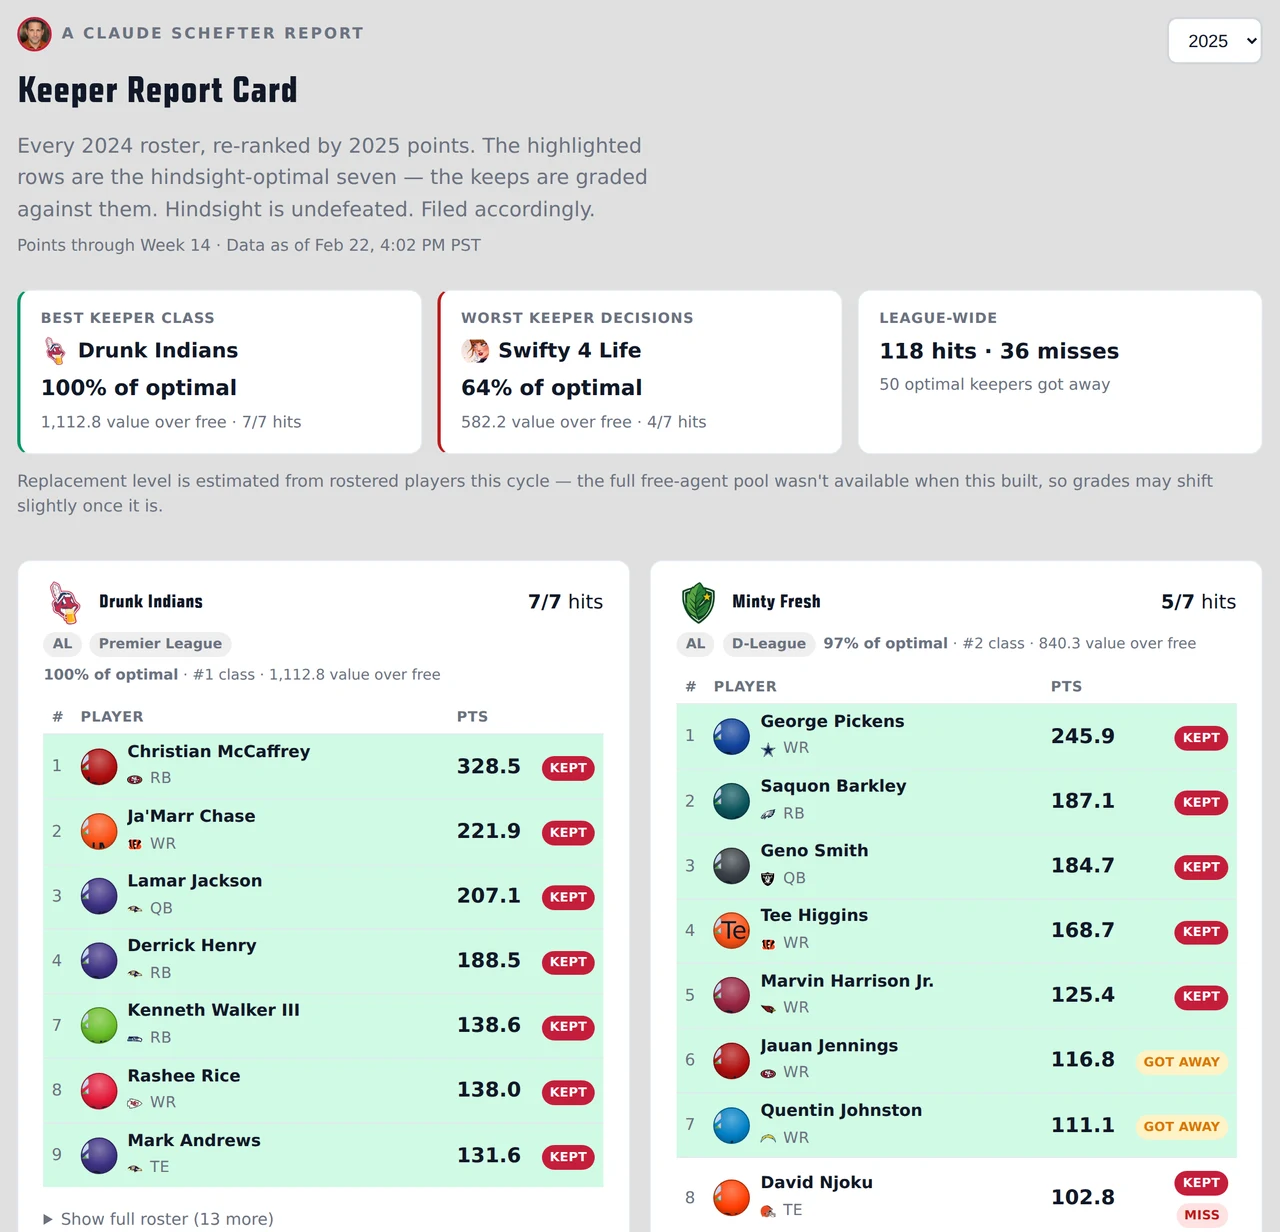
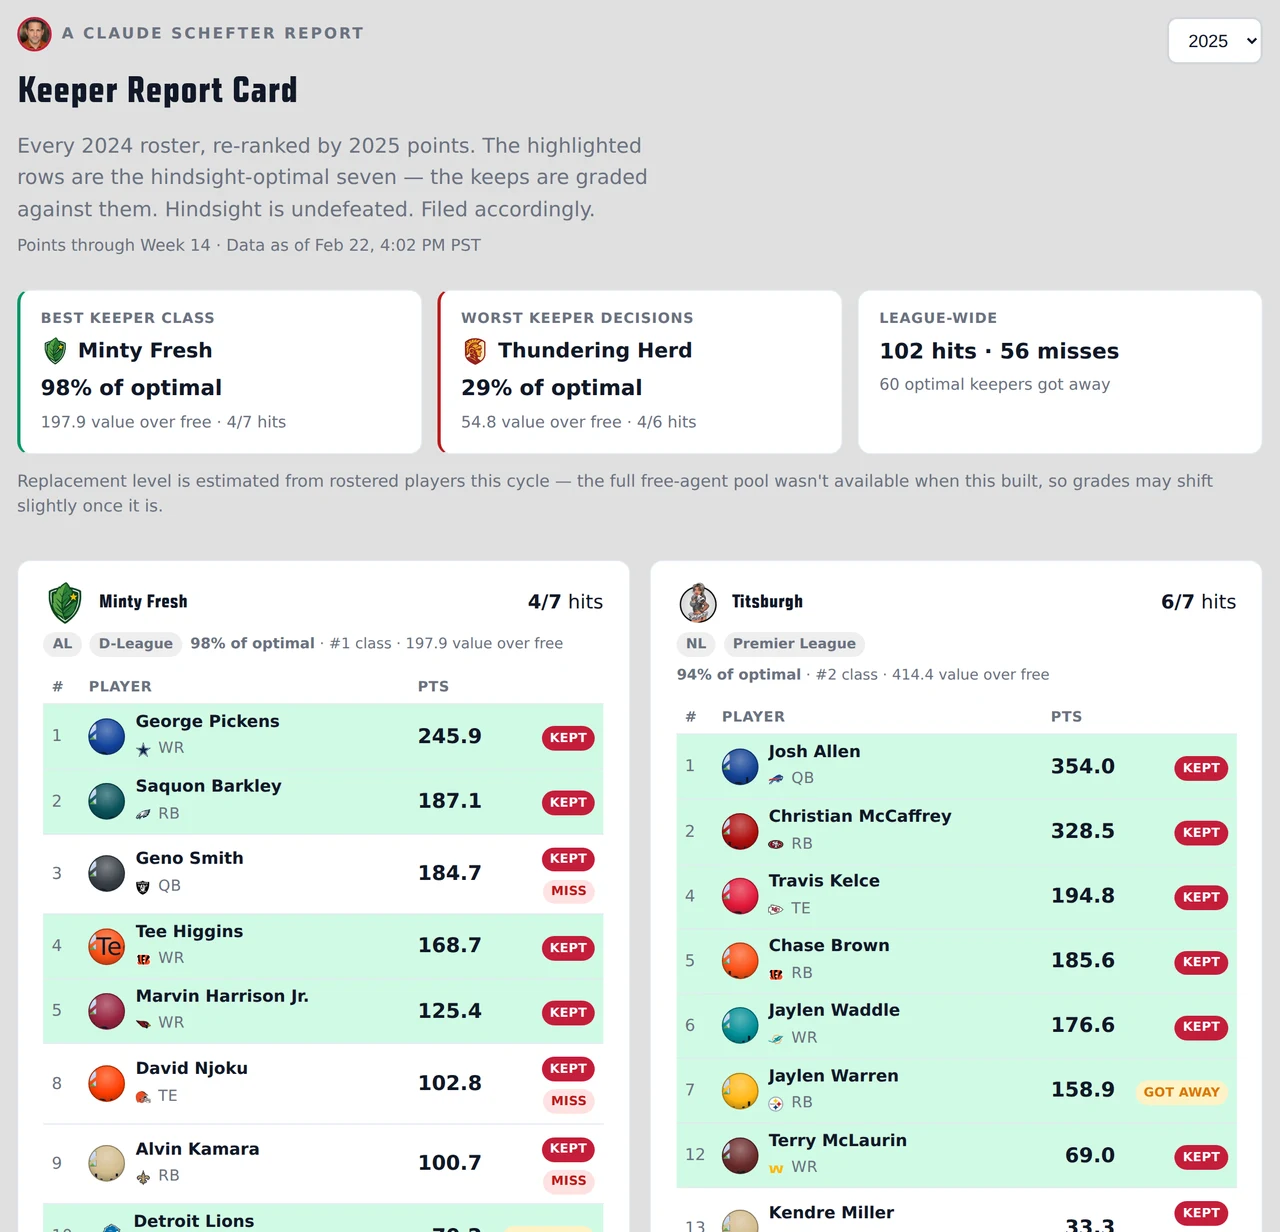
Size the replacement pool by conference, not by the whole league
Replacement level was computed against 24 franchises. The AFL is two
12-team conferences that roster independently from the same NFL
universe -- the same player can sit on a roster in both at once, which
is why computeSeasonPoints already dedupes players scoring in two
conferences and why the free-agents page tracks availability per
conference. A manager competes with 11 rivals for starters, not 23.

Using 24 put replacement roughly twice as deep as it belongs and
inflated every value over it. Corrected, the 2025 baselines move from
QB 11.19/wk to 19.59 and FLEX 1.83 to 11.03, and the grades spread from
64-100% to 29-98%. The board reorders substantially: a quarterback who
scored 207 over 13 weeks is now correctly BELOW a replacement QB in a
12-team league, so classes leaning on one lose the credit they were
getting for it.

teamsPerPool is an input rather than a constant, sized from the config's
conference split so a future realignment doesn't need a code change, and
defaulting to the franchise count for a single undivided pool. A
regression test pins the 12-vs-24 difference in both directions.

Claude-Session: https://claude.ai/code/session_016EYBoEgSx24MUitZsy6aWZ

diff --git a/src/utils/afl-keeper-analysis.ts b/src/utils/afl-keeper-analysis.ts
@@ -347,7 +347,13 @@ export type ReplacementLevels = Record<SlotGroup, number>;
 /**
  * Replacement level: the per-week rate of the best player at each slot group
  * you could NOT have started, i.e. the guy sitting one spot past the last
- * league-wide starting slot.
+ * starting slot in your player pool.
+ *
+ * The pool is ONE CONFERENCE (12 teams), not the 24-franchise league. The
+ * AFL's two conferences draft independently from the same NFL player
+ * universe — the same player can be rostered in both at once — so a manager
+ * competes with 11 rivals for starters, not 23. Using 24 would place
+ * replacement far too deep and inflate everyone's value over it.
  *
  * This is the whole reason the grading no longer needs position filters. A
  * kicker's raw total looks like a mid-tier running back's, but nearly all of
@@ -366,12 +372,13 @@ export function computeReplacementLevels(
   points: Map<string, number>,
   weeks: Map<string, number>,
   playersById: Map<string, PlayerInfo>,
-  franchiseCount: number,
+  /** Franchises competing for one player pool — a conference, not the league. */
+  teamsPerPool: number,
   maxCompletedWeek: number,
   ytdTotals?: Map<string, number>
 ): ReplacementLevels {
   const levels: ReplacementLevels = { QB: 0, PK: 0, Def: 0, FLEX: 0 };
-  if (franchiseCount <= 0 || maxCompletedWeek <= 0) return levels;
+  if (teamsPerPool <= 0 || maxCompletedWeek <= 0) return levels;
 
   // Season totals for everyone we can see, preferring the full-pool feed.
   const useYtd = !!ytdTotals && ytdTotals.size > 0;
@@ -395,8 +402,8 @@ export function computeReplacementLevels(
   for (const group of Object.keys(levels) as SlotGroup[]) {
     const list = rates[group].sort((a, b) => b - a);
     if (list.length === 0) continue;
-    // Index of the first player past the last startable one league-wide.
-    const startable = LINEUP_SLOTS[group] * franchiseCount;
+    // Index of the first player past the last startable one in the pool.
+    const startable = LINEUP_SLOTS[group] * teamsPerPool;
     levels[group] = list[Math.min(startable, list.length - 1)] ?? 0;
   }
   return levels;
@@ -684,6 +691,13 @@ export interface BuildKeeperAnalysisInput {
    */
   keeperSnapshots?: KeeperSnapshot[];
   /**
+   * Franchises sharing one player pool. The AFL's conferences roster
+   * independently from the same NFL universe, so this is 12 (one
+   * conference), NOT the 24 franchises the page renders. Defaults to the
+   * franchise count for callers with a single undivided pool.
+   */
+  teamsPerPool?: number;
+  /**
    * MFL playerScores W=YTD for the points season — season totals for EVERY
    * player, not just rostered ones. Authoritative for replacement level,
    * because replacement is by definition set by players nobody kept. Omit
@@ -709,7 +723,7 @@ export function buildKeeperAnalysis(input: BuildKeeperAnalysisInput): KeeperAnal
     points,
     weeks,
     playersById,
-    prevFranchises.length,
+    input.teamsPerPool ?? prevFranchises.length,
     maxCompletedWeek,
     ytdTotals
   );

diff --git a/tests/afl-keeper-analysis.test.ts b/tests/afl-keeper-analysis.test.ts
@@ -306,6 +306,26 @@ describe('computeReplacementLevels', () => {
   const pids = ['q1', 'q2', 'q3', 'q4'];
   const points = new Map([['q1', 280], ['q2', 210], ['q3', 140], ['q4', 70]]);
 
+  it('sizes the pool by conference, not by the whole league', () => {
+    // Same league, same players — only the pool size differs. A 12-team
+    // conference makes replacement a BETTER player (fewer startable slots),
+    // so everyone's value over it is smaller. Grading the AFL as one
+    // 24-team pool would put replacement far too deep.
+    const deep = playersFeed(
+      Array.from({ length: 30 }, (_, i) => [`p${i}`, `P, ${i}`, 'QB'] as [string, string, string])
+    );
+    const deepById = buildPlayersById(deep, undefined);
+    const deepPoints = new Map(
+      Array.from({ length: 30 }, (_, i) => [`p${i}`, (30 - i) * 14] as [string, number])
+    );
+    const deepWeeks = evenWeeks(deepPoints.keys());
+    const perConference = computeReplacementLevels(deepPoints, deepWeeks, deepById, 12, 14);
+    const wholeLeague = computeReplacementLevels(deepPoints, deepWeeks, deepById, 24, 14);
+    expect(perConference.QB).toBeGreaterThan(wholeLeague.QB);
+    expect(perConference.QB).toBeCloseTo(30 - 12); // the 13th-best QB
+    expect(wholeLeague.QB).toBeCloseTo(30 - 24); // the 25th — far too deep
+  });
+
   it('takes the best player past the last startable slot', () => {
     const weeks = evenWeeks(pids);
     const levels = computeReplacementLevels(points, weeks, byId, 2, 14);
